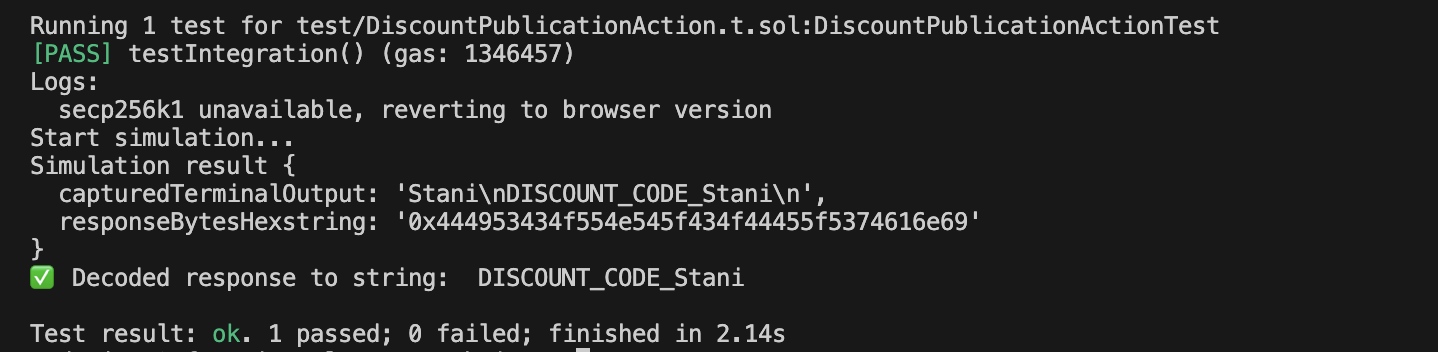
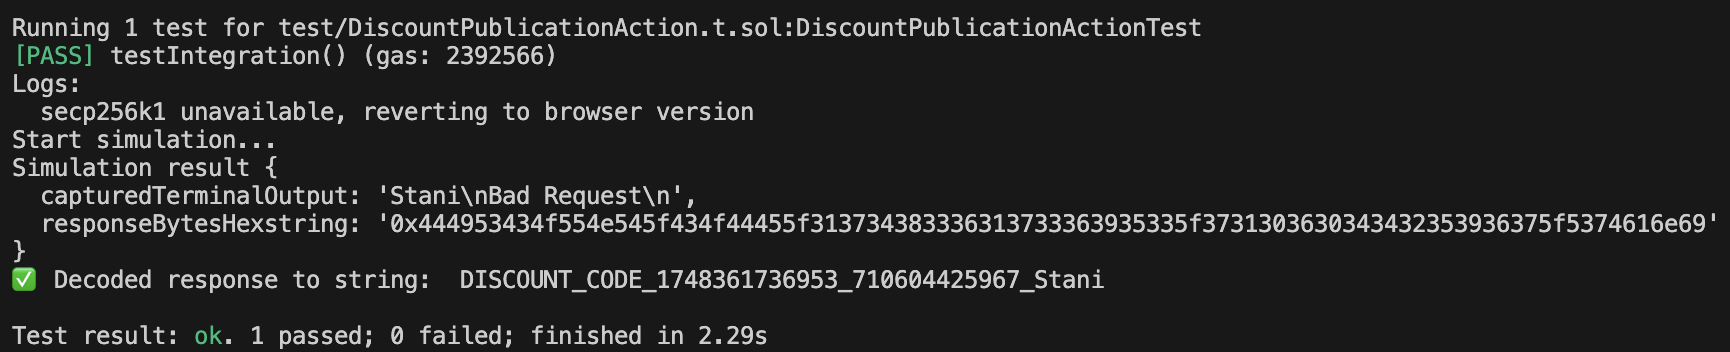
Zp patch mumbai prep (#2)
* chore: Update a discount code format

* chore: Update README image to reflect the discount code format change

* feat: USBAT have discount codes across multiple events

* chore: Percentage off & quantity available params should be configurable and passed during the init

* feat: Document deployment steps

* Updates:
1) README and scripts
2) correct references to API_KEY
3) rename request.js to simulateRequest.js to avoid confusion.

---------

diff --git a/source.js b/source.js
@@ -1,6 +1,8 @@
 const organizationId = args[0];
 const eventId = args[1];
 const msgSender = args[2];
+const percentageOff = args[3];
+const quantityAvailable = args[4];
 
 const resolveAddressToLensHandle = await Functions.makeHttpRequest({
     url: `https://api.lens.dev`,
@@ -23,22 +25,22 @@ const lensHandle = resolveAddressToLensHandle.data.data.profiles.items[0].name;
 
 console.log(lensHandle);
 
-const discountCode = `DISCOUNT_CODE_${lensHandle}`;
+const discountCode = `DISCOUNT_CODE_${organizationId}_${eventId}_${lensHandle}`;
 
 const createDiscount = await Functions.makeHttpRequest({
     url: `https://www.eventbriteapi.com/v3/organizations/${organizationId}/discounts/`,
     method: "POST",
     headers: {
-        'Authorization': `Bearer ${secrets.API_KEY}`,
+        'Authorization': `Bearer ${secrets.OAUTH_KEY}`,
         'Content-Type': 'application/json'
     },
     data: {
         "discount": {
             "type": "coded",
             "code": discountCode,
-            "percent_off": "100",
+            "percent_off": percentageOff, // "100"
             "event_id": eventId,
-            "quantity_available": 1
+            "quantity_available": quantityAvailable // 1
         }
     }
 });

diff --git a/simulateRequest.js b/simulateRequest.js
@@ -16,7 +16,7 @@ const simulateRequest = async () => {
         .toString();
 
     const args = [process.argv[2], process.argv[3], process.argv[4]]
-    const secrets = { API_KEY: process.env.API_KEY };
+    const secrets = { OAUTH_KEY: process.env.OAUTH_KEY };
 
 
     ///////// START SIMULATION ////////////

diff --git a/getDonIdBytes.js b/getDonIdBytes.js
@@ -1,0 +1,9 @@
+const ethers = require("ethers");
+
+const dontIdStr = process.argv[2]
+
+if (!dontIdStr) {
+    throw Error("Please pass in the donId as the first argument")
+}
+
+console.log(`DonId '${dontIdStr}' as bytes32 string: `, ethers.utils.formatBytes32String(dontIdStr))

diff --git a/README.md b/README.md
@@ -30,14 +30,14 @@ The event organizer will need to create a new event on Eventbrite, following [th
 
 ![event](./img/event.png)
 
-To develop and use this project, you will need to obtain a [free Eventbrite API key](https://www.eventbrite.com/help/en-us/articles/849962/generate-an-api-key/).
+To develop and use this project, you will need to obtain a [free Eventbrite OAUTH token](https://www.eventbrite.com/help/en-us/articles/849962/generate-an-api-key/).
 
-Once you generate an Eventbrite API key, you can visit the following web page to validate it works as expected `https://www.eventbriteapi.com/v3/users/me/?token=<YOUR_API_KEY_GOES_HERE>`
+Once you generate an Eventbrite OAUTH token, you can visit the following web page to validate it works as expected `https://www.eventbriteapi.com/v3/users/me/?token=<YOUR_OAUTH_TOKEN_GOES_HERE>`
 
 Next, you will need to get your
 
-- **Organization ID**, by visiting `https://www.eventbriteapi.com/v3/users/me/organizations/?token=<YOUR_API_KEY_GOES_HERE>`
-- **Event ID**, by visiting `https://www.eventbriteapi.com/v3/organizations/<ORGANIZATION_ID_GOES_HERE>/events/?token=<YOUR_API_KEY_GOES_HERE>`
+- **Organization ID**, by visiting `https://www.eventbriteapi.com/v3/users/me/organizations/?token=<YOUR_OAUTH_TOKEN_GOES_HERE>`
+- **Event ID**, by visiting `https://www.eventbriteapi.com/v3/organizations/<ORGANIZATION_ID_GOES_HERE>/events/?token=<YOUR_OAUTH_TOKEN_GOES_HERE>`
 
 The core logic is stored in the [`DiscountPublicationAction.sol`](./src/DiscountPublicationAction.sol) smart contract which implements `IPublicationActionModule` and `FunctionsClient` interfaces. On Lens collect, it will make a Chainlink Functions request to execute the JavaScript code from the [`source.js`](./source.js) file, which will resolve User's address to a Lens handle and generate the Eventbrite discount code for the provided event. The [`DiscountPublicationAction.sol`](./src/DiscountPublicationAction.sol) smart contract will then store the returned discount code.
 
@@ -53,7 +53,7 @@ For setting up environment variables we are going to use the [`@chainlink/env-en
 npx env-enc set-pw
 ```
 
-2. Now set the API_KEY environment variable by typing:
+2. Now set the `OAUTH_KEY` environment variable by typing:
 
 ```shell
 npx env-enc set
@@ -75,6 +75,29 @@ forge test -vvv --ffi
 
 ![test](./img/test.png)
 
+## Deployment
+
+To deploy [`DiscountPublicationAction.sol`](./src/DiscountPublicationAction.sol) smart contract, prepare the following constructor arguments:
+
+- `hub` - The address of a Lens' [LensHub](https://docs.lens.xyz/docs/deployed-contract-addresses) smart contract
+- `moduleGlobals` - The address of a Lens' [ModuleGlobals](https://docs.lens.xyz/docs/deployed-contract-addresses) smart contract
+- `router` - The address of a Chainlink [Functions Router](https://docs.chain.link/chainlink-functions/supported-networks) smart contract
+- `subscriptionId` - The ID of your Chainlink Functions subscription which you can create at [Functions Subscription Manager](https://functions.chain.link/) following steps from the [Official Documentation](https://docs.chain.link/chainlink-functions/resources/subscriptions)
+- `callbackGasLimit` - The [maximum gas](https://docs.chain.link/chainlink-functions/api-reference/functions-client) that Chainlink Functions can use when transmitting the response to your contract
+- `donIdBytes32` - The ID of a Chainlink Functions [DON to be invoked](https://docs.chain.link/chainlink-functions/supported-networks). This needs to be converted to `bytes32` with `cast --format-bytes32-string "fun-polygon-mumbai-1"` or via etherjs with `node getDonIdBytes.js fun-polygon-mumbai-1`.
+
+Then run the `forge create` command:
+
+```
+forge create --rpc-url <your_rpc_url> \
+    --private-key <your_private_key> \
+    --constructor-args <hub> <moduleGlobals> <router> <subscriptionId> <callbackGasLimit> <donIdBytes32> \
+    --etherscan-api-key <your_etherscan_api_key> \
+    --verify \
+    --legacy \
+    src/DiscountPublicationAction.sol:DiscountPublicationAction
+```
+
 ## Disclaimer
 
-This tutorial offers educational examples of how to use a Chainlink system, product, or service and is provided to demonstrate how to interact with Chainlink’s systems, products, and services to integrate them into your own. This template is provided “AS IS” and “AS AVAILABLE” without warranties of any kind, it has not been audited, and it may be missing key checks or error handling to make the usage of the system, product, or service more clear. Do not use the code in this example in a production environment without completing your own audits and application of best practices. Neither Chainlink Labs, the Chainlink Foundation, nor Chainlink node operators are responsible for unintended outputs that are generated due to errors in code. 
+This tutorial offers educational examples of how to use a Chainlink system, product, or service and is provided to demonstrate how to interact with Chainlink’s systems, products, and services to integrate them into your own. This template is provided “AS IS” and “AS AVAILABLE” without warranties of any kind, it has not been audited, and it may be missing key checks or error handling to make the usage of the system, product, or service more clear. Do not use the code in this example in a production environment without completing your own audits and application of best practices. Neither Chainlink Labs, the Chainlink Foundation, nor Chainlink node operators are responsible for unintended outputs that are generated due to errors in code.
